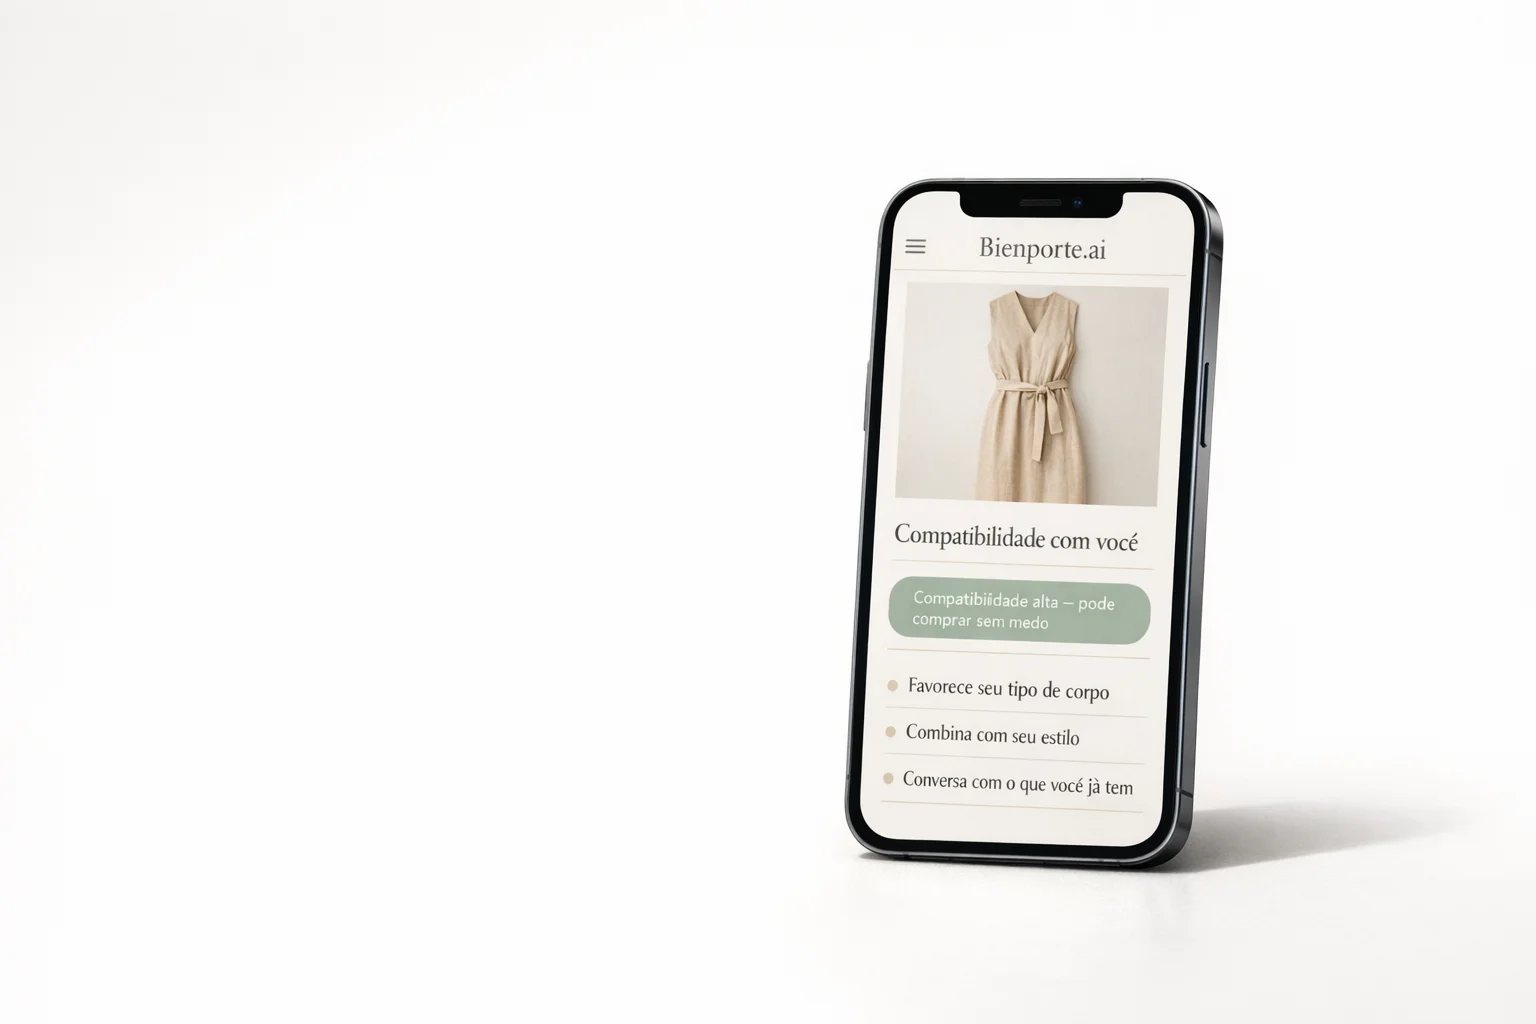
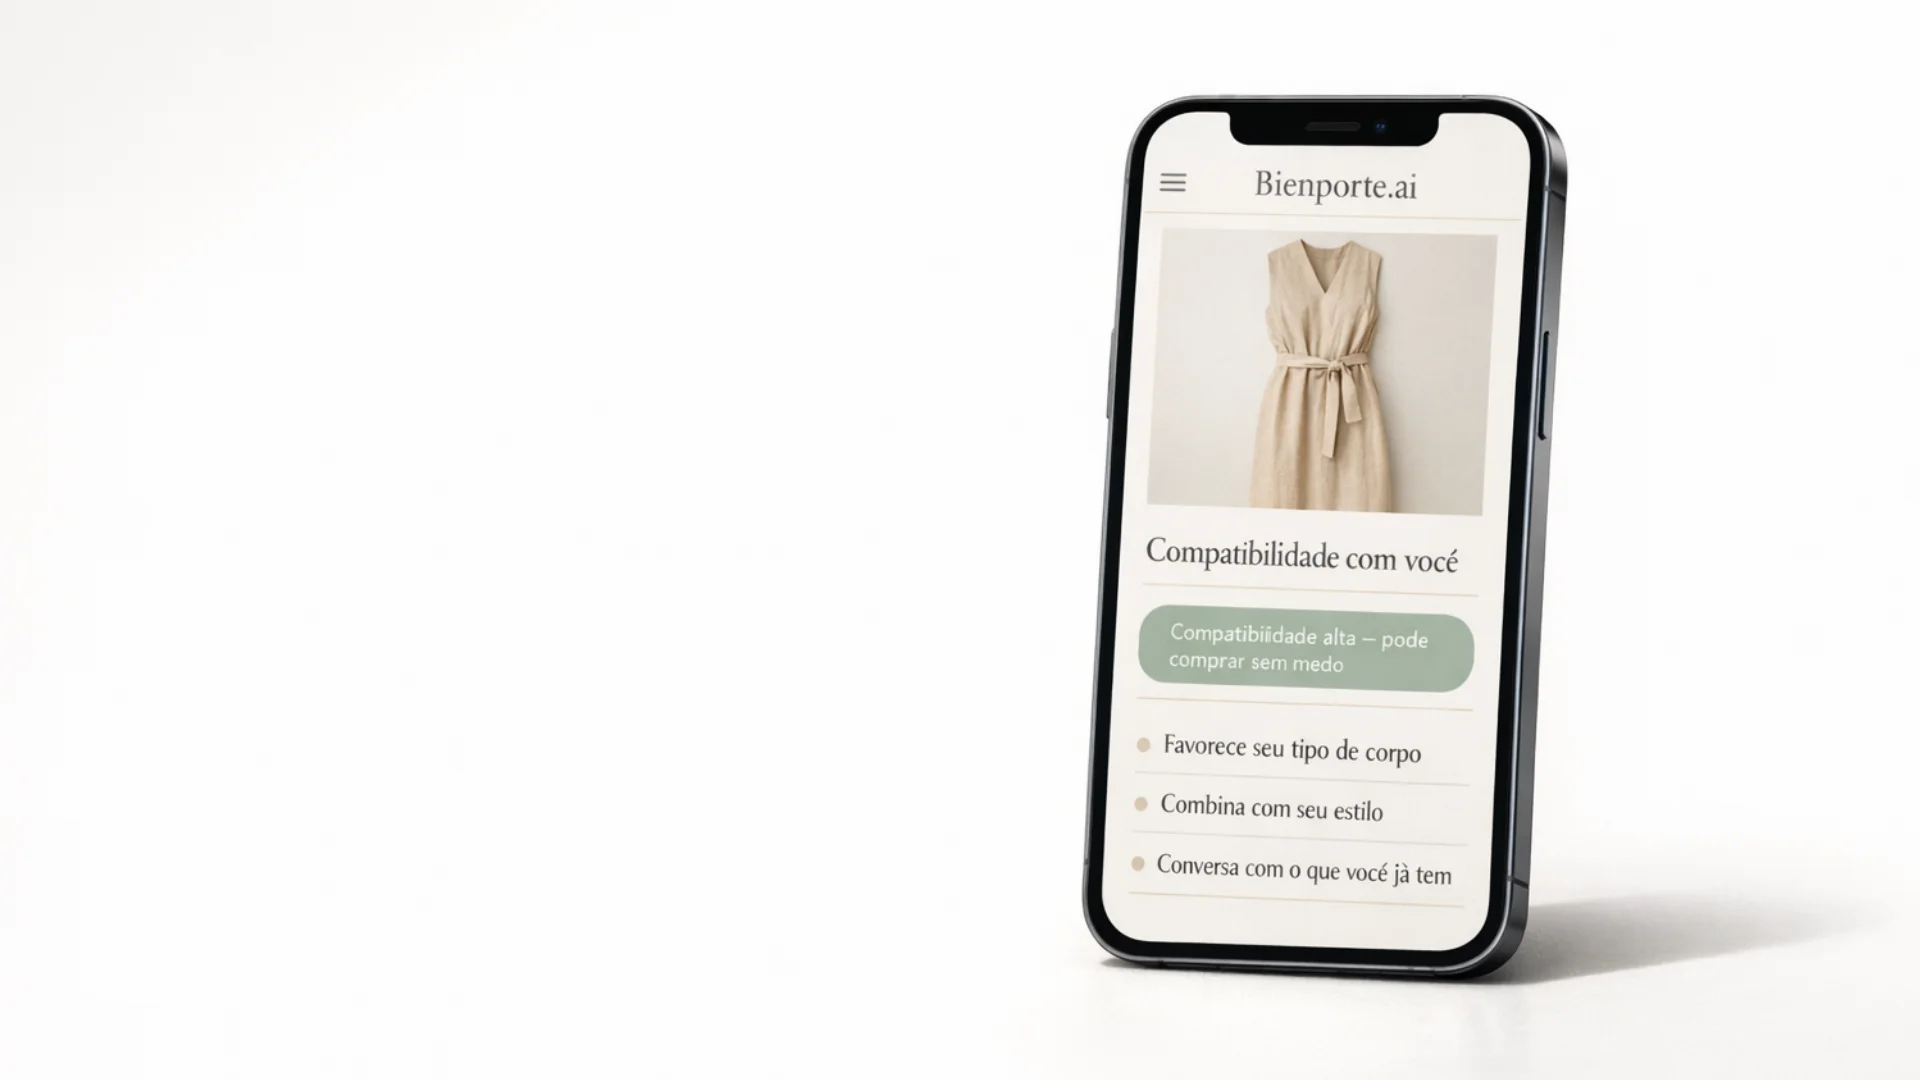
Auto-commit — 2026-04-20 19:07

Changed region(s): [[0.5312, 0.0625, 0.9375, 0.9375]]

diff --git a/css/style.css b/css/style.css
@@ -198,19 +198,35 @@ button { cursor: pointer; font-family: inherit; }
    HERO
    =========================== */
 
-/* Mobile: stacked — text top, image below */
+/* Full-bleed hero — image behind, text on top */
 .hero {
-  background: var(--bg);
+  position: relative;
+  min-height: 100vh;
   display: flex;
-  flex-direction: column;
+  align-items: center;
+  justify-content: center;
   padding-top: 4rem;
+  overflow: hidden;
+}
+
+.hero-bg {
+  position: absolute;
+  inset: 0;
+  width: 100%;
+  height: 100%;
+  object-fit: cover;
+  object-position: center center;
+  display: block;
+  z-index: 0;
 }
 
 .hero-inner {
-  padding: 3rem 1.5rem 2.5rem;
-  text-align: center;
   position: relative;
   z-index: 2;
+  padding: 3rem 1.5rem 3rem;
+  text-align: center;
+  width: 100%;
+  max-width: 56rem;
 }
 
 .hero h1 {
@@ -245,58 +261,9 @@ button { cursor: pointer; font-family: inherit; }
   text-align: center;
 }
 
-/* Mobile image: below text, cropped to show phone centered */
-.hero-image-wrap {
-  width: 100%;
-  height: 320px;
-  overflow: hidden;
-  flex-shrink: 0;
-}
-
-.hero-image {
-  width: 100%;
-  height: 100%;
-  object-fit: cover;
-  object-position: center 30%;
-  display: block;
-}
-
-/* Desktop: two-column — text left, phone image right */
-@media (min-width: 900px) {
-  .hero {
-    flex-direction: row;
-    align-items: center;
-    min-height: 100vh;
-    padding-top: 5rem;
-  }
-
-  .hero-inner {
-    flex: 0 0 52%;
-    padding: 4rem 3rem 4rem 5%;
-    text-align: left;
-  }
-
-  .hero h1 {
-    margin-left: 0;
-    margin-right: 0;
-    text-align: left;
-  }
-
-  .hero-sub {
-    margin-left: 0;
-    margin-right: 0;
-    text-align: left;
-  }
-
-  .hero-image-wrap {
-    flex: 0 0 48%;
-    height: 100%;
-    min-height: 600px;
-  }
-
-  .hero-image {
-    object-position: center center;
-  }
+@media (min-width: 768px) {
+  .hero { padding-top: 5rem; }
+  .hero-inner { padding: 4rem 3rem; }
 }
 
 /* ===========================

diff --git a/index.html b/index.html
@@ -28,6 +28,14 @@
 
   <!-- ===== HERO ===== -->
   <section class="hero">
+    <img
+      class="hero-bg"
+      src="assets/images/hero.webp"
+      alt=""
+      width="1920" height="1080"
+      loading="eager"
+      aria-hidden="true"
+    >
     <div class="hero-inner">
       <p class="section-label fade-up">Antes de comprar, descubra se combina.</p>
       <h1 class="fade-up-1">Pare de comprar roupa que fica parada no armário.</h1>
@@ -38,15 +46,6 @@
         <a class="btn btn-primary hero-btn" href="#vagas">Quero minha vaga — são apenas 30 vagas gratuitas</a>
         <p class="hero-scarcity">Sem assinatura. Sem pagamento. Só sua opinião depois.</p>
       </div>
-    </div>
-    <div class="hero-image-wrap">
-      <img
-        class="hero-image"
-        src="assets/images/hero.webp"
-        alt="Bienporte.ai mostrando análise de compatibilidade de peça"
-        width="1536" height="1024"
-        loading="eager"
-      >
     </div>
   </section>
 
